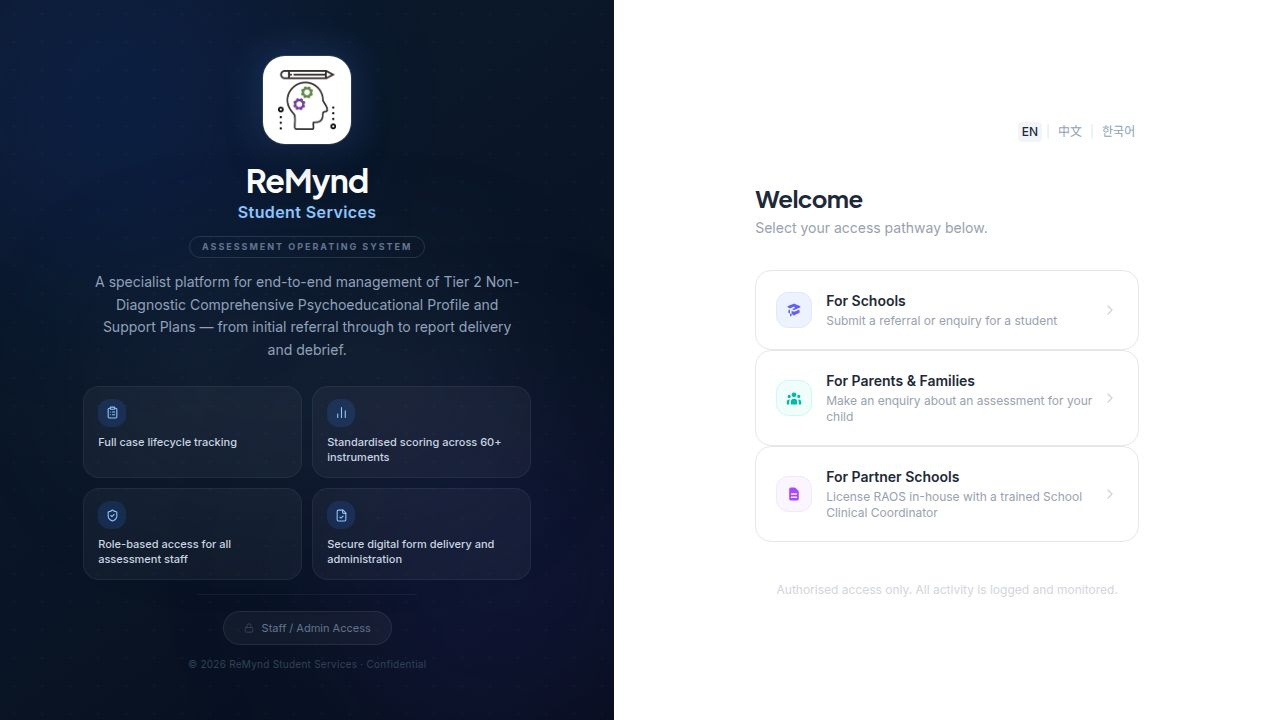
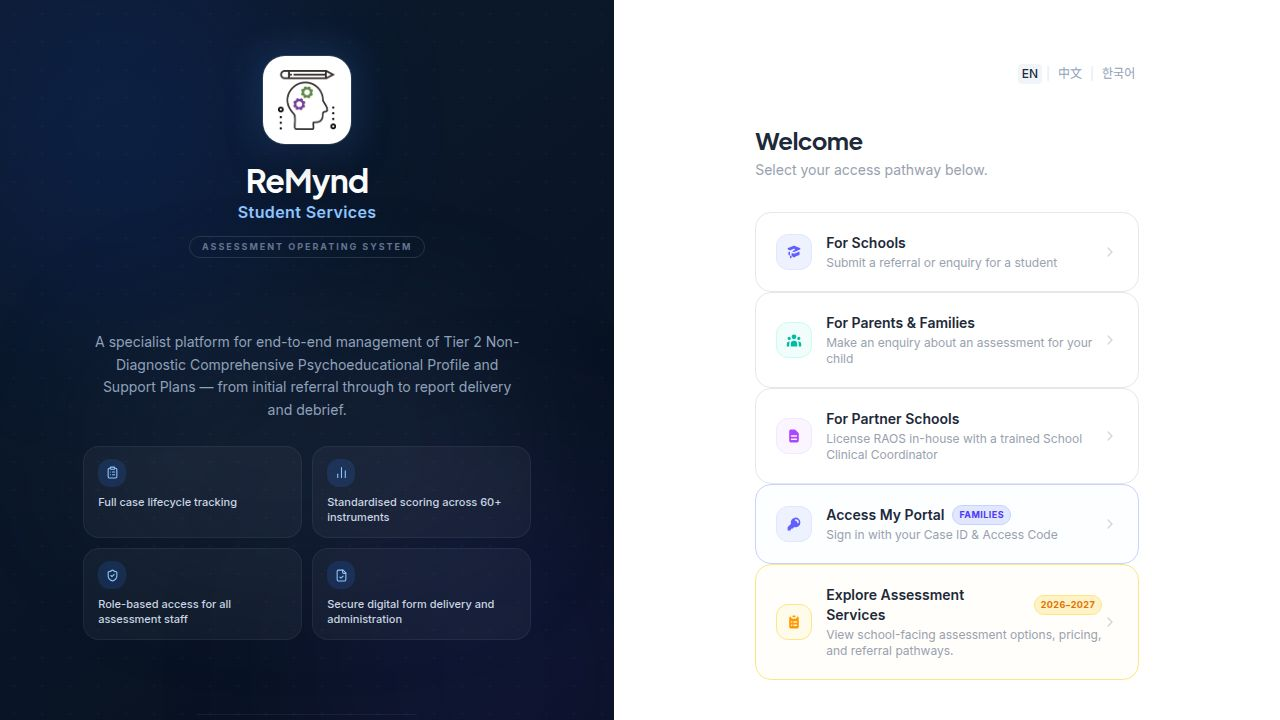
Add secure portal access for families using case ID and access code
Adds a new `/my-portal` route for users to log in with their Case ID and Access Code, enables auto-extraction of Case ID from credentials, and adds a "My Portal" card to the landing page.

Replit-Commit-Author: Agent
Replit-Commit-Session-Id: f019477b-99fa-48ef-9955-27a8c9af0381
Replit-Commit-Checkpoint-Type: full_checkpoint
Replit-Commit-Event-Id: a8560aac-b237-4635-b809-76a2fc5364dc
Replit-Commit-Screenshot-Url: https://storage.googleapis.com/screenshot-production-us-central1/1be43a0b-8939-44de-a9dd-79eb973f7e86/f019477b-99fa-48ef-9955-27a8c9af0381/FiUpFy9
Replit-Helium-Checkpoint-Created: true

diff --git a/artifacts/raos/src/pages/my-portal.tsx b/artifacts/raos/src/pages/my-portal.tsx
@@ -1,0 +1,134 @@
+import { useState } from "react";
+import { useLocation } from "wouter";
+
+const apiBase = import.meta.env.BASE_URL.replace(/\/$/, "");
+
+export default function MyPortalLogin() {
+  const [, navigate] = useLocation();
+  const [caseId, setCaseId] = useState("");
+  const [accessCode, setAccessCode] = useState("");
+  const [loading, setLoading] = useState(false);
+  const [error, setError] = useState<string | null>(null);
+
+  async function handleSubmit(e: React.FormEvent) {
+    e.preventDefault();
+    setError(null);
+    setLoading(true);
+    try {
+      const res = await fetch(`${apiBase}/api/external/portal-login`, {
+        method: "POST",
+        headers: { "Content-Type": "application/json" },
+        body: JSON.stringify({ caseId: caseId.trim(), accessCode: accessCode.trim() }),
+      });
+      const data = await res.json();
+      if (!res.ok) {
+        setError(data.message ?? "Login failed. Please check your credentials.");
+        return;
+      }
+      navigate(`/external/${data.token}`);
+    } catch {
+      setError("Unable to connect. Please try again.");
+    } finally {
+      setLoading(false);
+    }
+  }
+
+  return (
+    <div className="min-h-screen flex items-center justify-center bg-gradient-to-br from-slate-50 to-slate-100 px-4">
+      <div className="w-full max-w-md">
+        {/* Logo / branding */}
+        <div className="text-center mb-8">
+          <div className="inline-flex items-center justify-center w-14 h-14 rounded-2xl bg-indigo-600 shadow-lg mb-4">
+            <svg viewBox="0 0 24 24" fill="none" stroke="white" strokeWidth="1.8" strokeLinecap="round" strokeLinejoin="round" className="w-7 h-7">
+              <path d="M12 2L2 7l10 5 10-5-10-5z"/>
+              <path d="M2 17l10 5 10-5"/>
+              <path d="M2 12l10 5 10-5"/>
+            </svg>
+          </div>
+          <h1 className="text-2xl font-bold text-slate-800">My Assessment Portal</h1>
+          <p className="text-sm text-slate-500 mt-1">ReMynd Student Services</p>
+        </div>
+
+        {/* Card */}
+        <div className="bg-white rounded-2xl shadow-xl border border-slate-100 p-8">
+          <p className="text-sm text-slate-600 mb-6 text-center leading-relaxed">
+            Enter your <span className="font-semibold text-slate-800">Bobby-AI Case ID</span> and{" "}
+            <span className="font-semibold text-slate-800">Access Code</span> to access your portal.
+            These were provided in your debrief email.
+          </p>
+
+          <form onSubmit={handleSubmit} className="space-y-4">
+            <div>
+              <label className="block text-xs font-semibold text-slate-600 uppercase tracking-wide mb-1.5">
+                Case ID
+              </label>
+              <input
+                type="text"
+                value={caseId}
+                onChange={(e) => setCaseId(e.target.value)}
+                placeholder="e.g. CASE-HZ062U"
+                autoComplete="username"
+                required
+                className="w-full px-4 py-3 rounded-xl border border-slate-200 text-sm text-slate-800 placeholder-slate-300 focus:outline-none focus:ring-2 focus:ring-indigo-400 focus:border-transparent transition font-mono"
+              />
+            </div>
+
+            <div>
+              <label className="block text-xs font-semibold text-slate-600 uppercase tracking-wide mb-1.5">
+                Access Code
+              </label>
+              <input
+                type="password"
+                value={accessCode}
+                onChange={(e) => setAccessCode(e.target.value)}
+                placeholder="Your access code"
+                autoComplete="current-password"
+                required
+                className="w-full px-4 py-3 rounded-xl border border-slate-200 text-sm text-slate-800 placeholder-slate-300 focus:outline-none focus:ring-2 focus:ring-indigo-400 focus:border-transparent transition font-mono"
+              />
+            </div>
+
+            {error && (
+              <div className="bg-red-50 border border-red-200 rounded-xl px-4 py-3 flex items-start gap-3">
+                <svg viewBox="0 0 20 20" fill="currentColor" className="w-4 h-4 text-red-500 flex-shrink-0 mt-0.5">
+                  <path fillRule="evenodd" d="M18 10a8 8 0 11-16 0 8 8 0 0116 0zm-7 4a1 1 0 11-2 0 1 1 0 012 0zm-1-9a1 1 0 00-1 1v4a1 1 0 102 0V6a1 1 0 00-1-1z" clipRule="evenodd"/>
+                </svg>
+                <p className="text-sm text-red-700">{error}</p>
+              </div>
+            )}
+
+            <button
+              type="submit"
+              disabled={loading || !caseId || !accessCode}
+              className="w-full py-3 rounded-xl bg-indigo-600 hover:bg-indigo-700 disabled:bg-indigo-300 text-white text-sm font-semibold transition-colors shadow-sm"
+            >
+              {loading ? (
+                <span className="flex items-center justify-center gap-2">
+                  <svg className="animate-spin w-4 h-4" viewBox="0 0 24 24" fill="none">
+                    <circle className="opacity-25" cx="12" cy="12" r="10" stroke="currentColor" strokeWidth="4"/>
+                    <path className="opacity-75" fill="currentColor" d="M4 12a8 8 0 018-8v4a4 4 0 00-4 4H4z"/>
+                  </svg>
+                  Signing in…
+                </span>
+              ) : "Access My Portal"}
+            </button>
+          </form>
+
+          <div className="mt-6 pt-5 border-t border-slate-100 text-center space-y-2">
+            <p className="text-xs text-slate-400">
+              Don't have your credentials?{" "}
+              <a href="/portal?tab=parent" className="text-indigo-500 hover:underline">Contact us</a>
+            </p>
+            <p className="text-xs text-slate-400">
+              <a href="/" className="text-slate-400 hover:text-indigo-500 transition-colors">← Back to home</a>
+            </p>
+          </div>
+        </div>
+
+        <p className="text-center text-[11px] text-slate-300 mt-6">
+          © {new Date().getFullYear()} ReMynd Student Services · Confidential
+        </p>
+      </div>
+    </div>
+  );
+}

diff --git a/artifacts/api-server/src/routes/external.ts b/artifacts/api-server/src/routes/external.ts
@@ -867,4 +867,66 @@ GUIDELINES:
   }
 });
 
+// ── Portal credential login ───────────────────────────────────────────────────
+// POST /api/external/portal-login
+// Body: { caseId: string, accessCode: string }
+// Returns the portal token for the given case if credentials match and case is in debrief/complete phase.
+router.post("/external/portal-login", async (req, res) => {
+  const { caseId, accessCode } = req.body ?? {};
+
+  if (!caseId || !accessCode) {
+    res.status(400).json({ error: "bad_request", message: "Case ID and Access Code are required." });
+    return;
+  }
+
+  // Look up the case by stored Bobby-AI Case ID
+  const caseRows = await db
+    .select()
+    .from(casesTable)
+    .where(eq(casesTable.bobbyAiCaseId, String(caseId).trim()))
+    .limit(1);
+
+  const c = caseRows[0];
+  if (!c) {
+    res.status(401).json({ error: "invalid_credentials", message: "No matching case found. Please check your Case ID." });
+    return;
+  }
+
+  // Only allow access in debrief or complete phase
+  if (c.currentPhase !== "debrief" && c.currentPhase !== "complete") {
+    res.status(403).json({ error: "not_ready", message: "Your portal is not yet available. It will be activated after your debrief session." });
+    return;
+  }
+
+  // Extract access code from stored credentials and compare
+  const credRaw = c.bobbyAiPortalCredentials ?? "";
+  const codeMatch = credRaw.match(/Access\s*Code\s*[:\-]\s*([^\n\r]+)/i);
+  const storedCode = codeMatch ? codeMatch[1].trim() : null;
+
+  if (!storedCode || storedCode !== String(accessCode).trim()) {
+    res.status(401).json({ error: "invalid_credentials", message: "Access Code is incorrect." });
+    return;
+  }
+
+  // Find the first available portal token for this case (prefer parent, then teacher)
+  const tokenRows = await db
+    .select()
+    .from(reportTokensTable)
+    .where(eq(reportTokensTable.caseId, c.id))
+    .limit(10);
+
+  if (!tokenRows.length) {
+    res.status(403).json({ error: "no_token", message: "No portal access has been set up for this case yet." });
+    return;
+  }
+
+  // Prefer parent token, then teacher
+  const token =
+    tokenRows.find((t) => t.role === "parent") ??
+    tokenRows.find((t) => t.role === "teacher") ??
+    tokenRows[0];
+
+  res.json({ token: token.token });
+});
+
 export default router;

diff --git a/artifacts/raos/src/pages/landing.tsx b/artifacts/raos/src/pages/landing.tsx
@@ -166,6 +166,29 @@ export default function LandingPage() {
               </div>
             </Link>
 
+            {/* My Portal card */}
+            <Link href="/my-portal">
+              <div className="group border border-indigo-200 hover:border-indigo-400 hover:bg-indigo-50/50 rounded-xl p-5 cursor-pointer transition-all duration-200 hover:shadow-md bg-indigo-50/10">
+                <div className="flex items-center justify-between">
+                  <div className="flex items-center gap-3.5">
+                    <div className="w-9 h-9 rounded-lg bg-indigo-50 group-hover:bg-indigo-100 flex items-center justify-center transition-colors border border-indigo-100 flex-shrink-0">
+                      <svg viewBox="0 0 20 20" fill="currentColor" className="w-4 h-4 text-indigo-500">
+                        <path fillRule="evenodd" d="M18 8a6 6 0 01-7.743 5.743L10 14l-1 1-1 1H6v2H2v-4l4.257-4.257A6 6 0 1118 8zm-6-4a1 1 0 100 2 2 2 0 012 2 1 1 0 102 0 4 4 0 00-4-4z" clipRule="evenodd"/>
+                      </svg>
+                    </div>
+                    <div>
+                      <div className="flex items-center gap-2 mb-0.5">
+                        <p className="text-sm font-semibold text-slate-800">Access My Portal</p>
+                        <span className="text-[9px] font-bold uppercase tracking-wider bg-indigo-100 text-indigo-600 border border-indigo-200 px-1.5 py-0.5 rounded-full whitespace-nowrap">Families</span>
+                      </div>
+                      <p className="text-xs text-gray-400">Sign in with your Case ID &amp; Access Code</p>
+                    </div>
+                  </div>
+                  <ChevronRight size={16} className="text-gray-300 group-hover:text-indigo-500 transition-colors flex-shrink-0" />
+                </div>
+              </div>
+            </Link>
+
             {/* Assessment Services card */}
             <Link href="/assessment-services">
               <div className="group border border-amber-200 hover:border-amber-400 hover:bg-amber-50/40 rounded-xl p-5 cursor-pointer transition-all duration-200 hover:shadow-md bg-amber-50/20">

diff --git a/artifacts/api-server/src/routes/cases.ts b/artifacts/api-server/src/routes/cases.ts
@@ -333,6 +333,14 @@ router.patch("/cases/:caseId", authMiddleware, async (req, res) => {
   if (updates.currentPhase) {
     updates.progressPercentage = PHASE_PROGRESS[updates.currentPhase as string] ?? 0;
   }
+
+  // Auto-extract bobbyAiCaseId whenever credentials are updated
+  if (updates.bobbyAiPortalCredentials !== undefined) {
+    const raw = updates.bobbyAiPortalCredentials ?? "";
+    const match = raw.match(/Case\s*ID\s*[:\-]\s*([^\n\r]+)/i);
+    (updates as Record<string, unknown>)["bobbyAiCaseId"] = match ? match[1].trim() : null;
+  }
+
   // If the working doc URL is being changed, reset both approvals
   if (updates.workingDocUrl !== undefined && updates.workingDocUrl !== existing[0].workingDocUrl) {
     updates.adminApprovedReport = false;

diff --git a/artifacts/raos/src/App.tsx b/artifacts/raos/src/App.tsx
@@ -57,6 +57,7 @@ import ExternalFormView from "@/pages/external/[token]";
 import JoinMeetingPage from "@/pages/join/[room]";
 import QuickMeetPage from "@/pages/meet/[room]";
 import Portal from "@/pages/portal";
+import MyPortalLogin from "@/pages/my-portal";
 import LandingPage from "@/pages/landing";
 import AssessmentTools from "@/pages/tools";
 import FormPreviewPage from "@/pages/tools/[id]/preview";
@@ -121,6 +122,7 @@ function Router() {
     <Switch>
       <Route path="/login" component={Login} />
       <Route path="/portal" component={Portal} />
+      <Route path="/my-portal" component={MyPortalLogin} />
       <Route path="/external/:token" component={ExternalFormView} />
       <Route path="/student-view/rda" component={RdaStudentView} />
       <Route path="/student-view/rrca/:token" component={RrcaStudentView} />

diff --git a/lib/db/src/schema/cases.ts b/lib/db/src/schema/cases.ts
@@ -53,6 +53,7 @@ export const casesTable = pgTable("cases", {
   debriefMeetingUrl: text("debrief_meeting_url"),
   debriefMeetingDate: text("debrief_meeting_date"),
   bobbyAiPortalCredentials: text("bobby_ai_portal_credentials"),
+  bobbyAiCaseId: text("bobby_ai_case_id"),
   productIds: jsonb("product_ids").$type<string[]>().notNull().default([]),
   intakeData: jsonb("intake_data"),
   intakeAnalysis: jsonb("intake_analysis"),